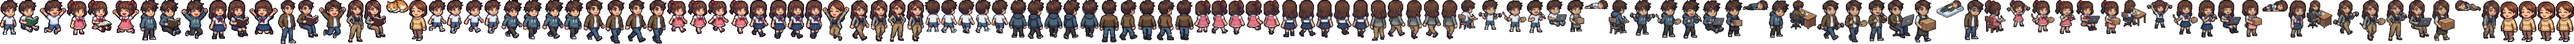
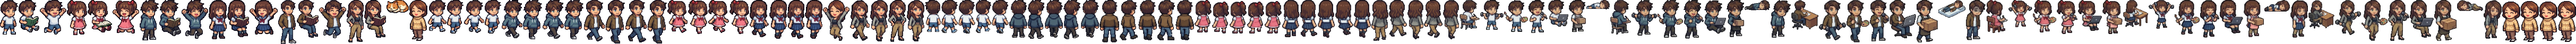
v0.5.6: 딸 유년기 뒷모습 걷기 수정
- 반대 방향으로 그려진 원본 대신 뒤 서기 그림에서 걷기 4프레임 생성

Claude-Session: https://claude.ai/code/session_01VYXQzVYR4chXqJ2j5munDD

diff --git a/src/components/TitleScreen.tsx b/src/components/TitleScreen.tsx
@@ -59,7 +59,7 @@ export function TitleScreen({ onStart }: { onStart: () => void }) {
           <PixelButton color="bg-sky" onClick={() => setMode('book')}>
             👑 엔딩 도감 ({unlockedEndings.length}/{ENDINGS.length})
           </PixelButton>
-          <p className="mt-2 text-[10px] text-white/60">v0.5.5 · 뒷모습 걸음 개선</p>
+          <p className="mt-2 text-[10px] text-white/60">v0.5.6 · 딸 유년기 뒷모습 수정</p>
         </div>
       )}
 

diff --git a/scripts/build-sprites.py b/scripts/build-sprites.py
@@ -150,7 +150,7 @@ def cut(img, box, block=BLOCK):
     return out[ys.min() : ys.max() + 1, xs.min() : xs.max() + 1]
 
 
-def walk_frames(s):
+def walk_frames(s, lift=None):
     """s: HxWx4 서기 스프라이트 → 걷기 4프레임 (각 H+2 x W)"""
     h, w, _ = s.shape
     a = s[..., 3] > 0
@@ -197,7 +197,7 @@ def walk_frames(s):
         return lay
 
     # (왼다리 dx,dy), (오른다리 dx,dy), 몸 dy, (왼팔 dy, 오른팔 dy)
-    lift = max(2, h // 28)
+    lift = lift or max(2, h // 28)
     # 발 디딤(contact) 프레임: 한쪽 다리 들고 몸이 1px 내려앉음 / 교차(passing) 프레임: 기본 자세
     cycle = [
         ((-1, -lift), (1, 0), 1, (1, -1)),   # 왼발 앞으로
@@ -263,6 +263,8 @@ for g, path in WALK_SHEETS.items():
 # 걷기 5장 중 행마다 자동 선택: 발 간격이 가장 좁은 그림 = 다리 모음(교차),
 # 발 간격이 넓고 뒤쪽 발 방향이 서로 반대인 두 장 = 왼발/오른발 보폭 → [보폭A, 교차, 보폭B, 교차]
 # 키는 앞모습 서기 키에 맞춘다.
+# 원본 걷기 그림이 이상한 줄 (딸 유년기: 왼쪽 위를 향해 그려졌고 발이 뜨는 등 다리 모양이 어색함)
+BACK_SYNTH = {'CHILD_DAUGHTER'}
 BACK_SHEETS = {
     'SON': 'assets-src/son-back-sheet.png',
     'DAUGHTER': 'assets-src/daughter-back-sheet.png',
@@ -290,6 +292,15 @@ for g, path in BACK_SHEETS.items():
     for r, st in enumerate(STAGES):
         row = bboxes[r * 6:(r + 1) * 6]
         stand_box, walks = row[0], row[1:]
+        if f'{st}_{g}' in BACK_SYNTH:
+            # 원본 걷기 그림이 이상한 줄: 똑바로 등을 보인 '뒤 서기'에서 걷기 4프레임을 직접 생성
+            target_h = sprites[f'{st}_{g}_stand'].shape[0]
+            stand = cut(img_b, stand_box, (stand_box[3] - stand_box[1]) / target_h)
+            sprites[f'{st}_{g}_back_stand'] = stand
+            for i, wf in enumerate(walk_frames(stand, lift=3)):
+                sprites[f'{st}_{g}_back_walk{i}'] = wf
+            print(f'  {g} {st} 뒷모습 걷기: 뒤 서기 그림에서 4프레임 생성')
+            continue
         feats = [gait_features(img_b, b) for b in walks]
         pass_i = min(range(5), key=lambda i: feats[i][0])
         rest = sorted((i for i in range(5) if i != pass_i), key=lambda i: -feats[i][0])

diff --git a/CHANGELOG.md b/CHANGELOG.md
@@ -1,5 +1,15 @@
 # Changelog
 
+## v0.5.6 — 딸 유년기 뒷모습 걷기 수정
+
+### 수정
+- 딸 유년기 뒷모습: 오른쪽으로 걸을 때 머리가 왼쪽을 보던 문제
+  - 원인: 이 줄만 Gemini가 '왼쪽 위로 걸어가는' 방향으로 그렸는데 게임은 오른쪽 위로 보고 좌우 반전함
+  - 원본 걷기 그림도 발이 뜨고 팔이 들리는 등 다리 모양이 어색함
+  - 해결: 원본 걷기 그림 대신, 똑바로 등을 보인 '뒤 서기' 그림에서 다리를 나눠 번갈아 들고
+    팔을 반대로 흔드는 걷기 4프레임을 직접 생성 (`BACK_SYNTH`) → 어느 방향으로 걸어도 머리가 틀어지지 않음
+  - 발 들림 3px로 키워 작은 유년기 체형에서도 걸음이 보이게 함
+
 ## v0.5.5 — 뒷모습 걸음 자연스럽게
 
 ### 수정
